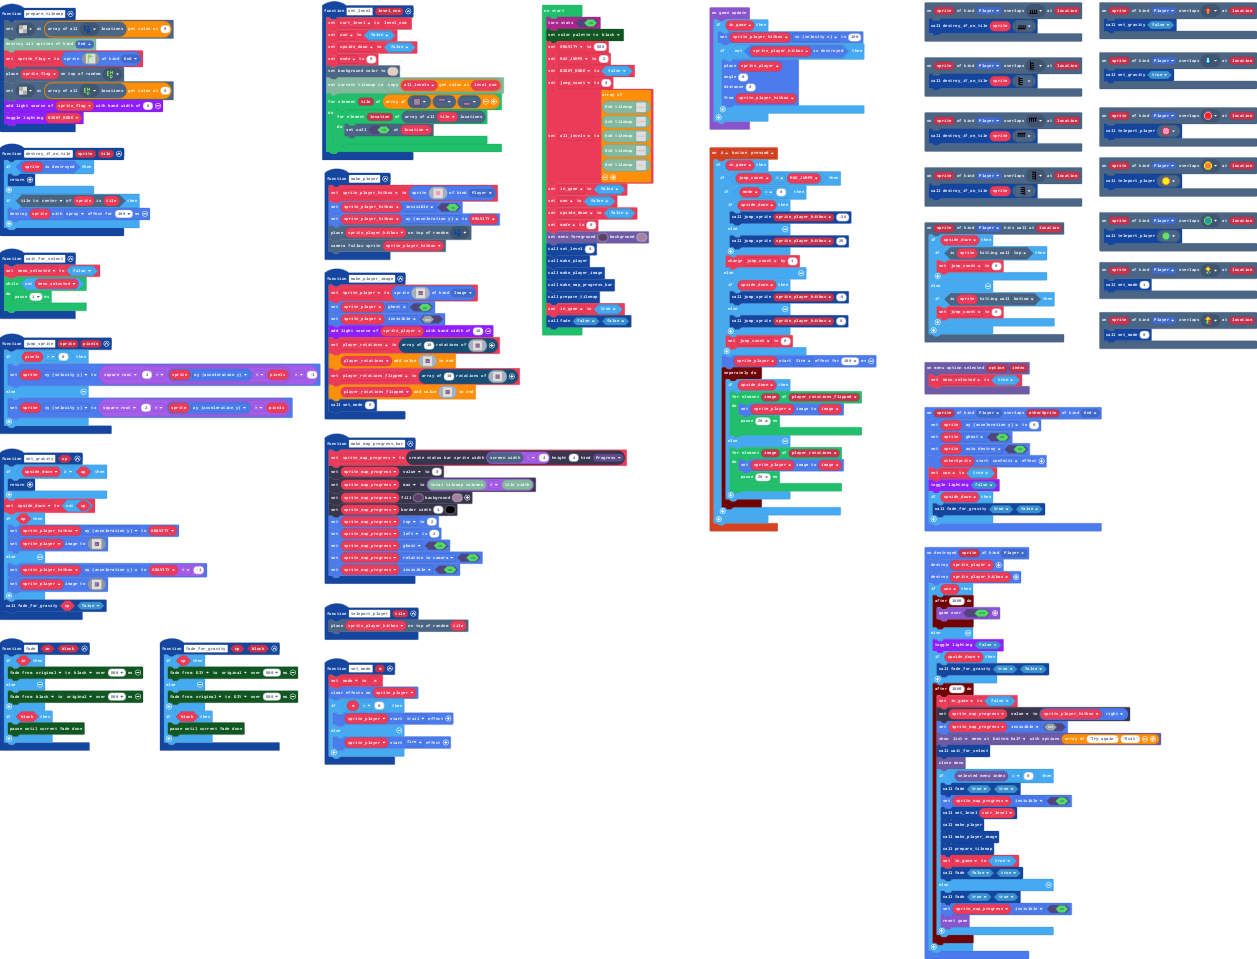
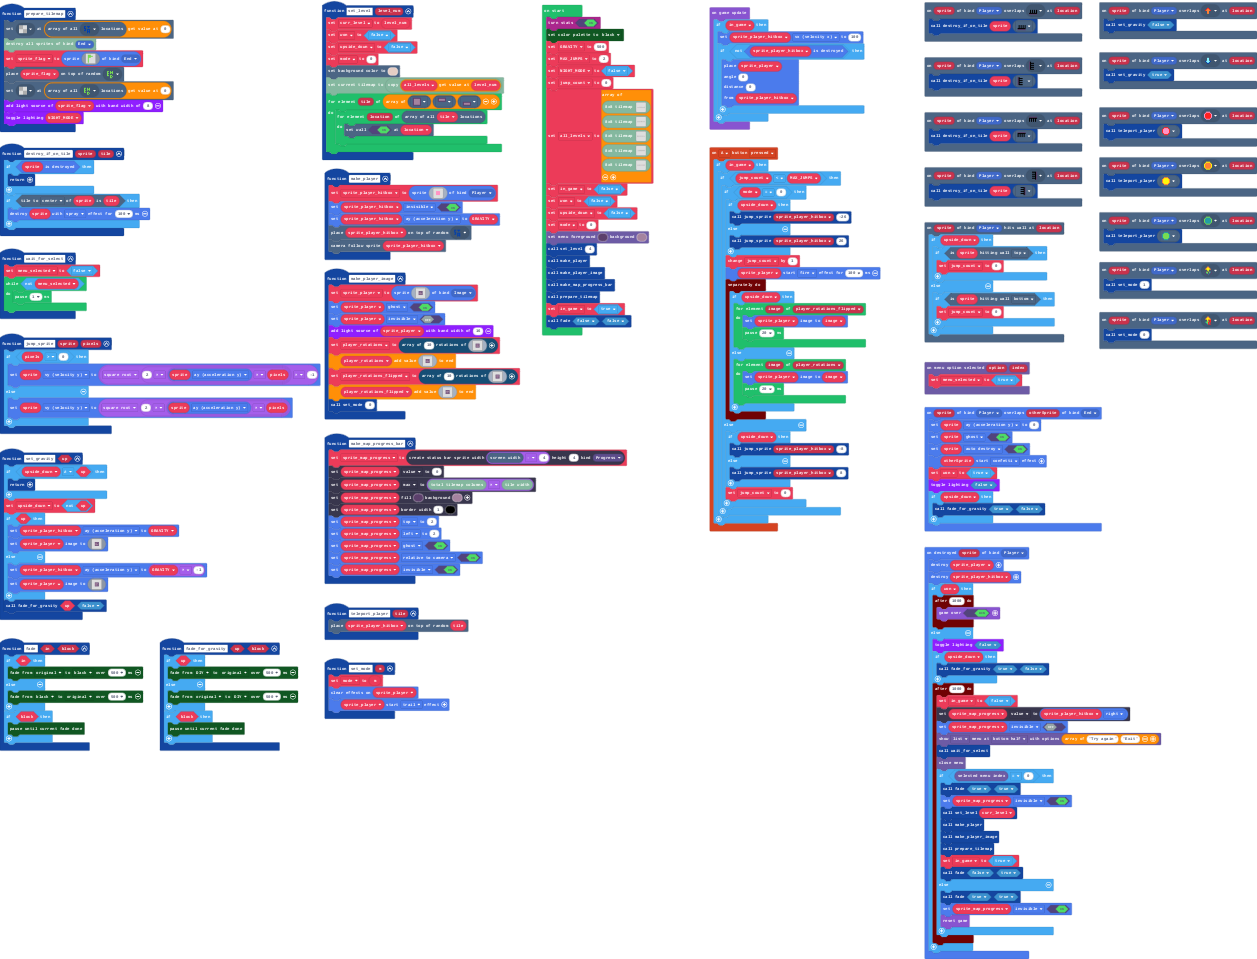
Only animate jumping when in mode 0

Changed region(s): [[0.5585, 0.2722, 0.7136, 0.5443], [0.2482, 0.7258, 0.3723, 0.8165]]

diff --git a/main.ts b/main.ts
@@ -73,6 +73,20 @@ controller.A.onEvent(ControllerButtonEvent.Pressed, function () {
                     jump_sprite(sprite_player_hitbox, 26)
                 }
                 jump_count += 1
+                sprite_player.startEffect(effects.fire, 100)
+                timer.background(function () {
+                    if (upside_down) {
+                        for (let image2 of player_rotations_flipped) {
+                            sprite_player.setImage(image2)
+                            pause(20)
+                        }
+                    } else {
+                        for (let image2 of player_rotations) {
+                            sprite_player.setImage(image2)
+                            pause(20)
+                        }
+                    }
+                })
             } else {
                 if (upside_down) {
                     jump_sprite(sprite_player_hitbox, -8)
@@ -81,20 +95,6 @@ controller.A.onEvent(ControllerButtonEvent.Pressed, function () {
                 }
                 jump_count = 0
             }
-            sprite_player.startEffect(effects.fire, 100)
-            timer.background(function () {
-                if (upside_down) {
-                    for (let image2 of player_rotations_flipped) {
-                        sprite_player.setImage(image2)
-                        pause(20)
-                    }
-                } else {
-                    for (let image2 of player_rotations) {
-                        sprite_player.setImage(image2)
-                        pause(20)
-                    }
-                }
-            })
         }
     }
 })
@@ -113,11 +113,7 @@ function prepare_tilemap () {
 function set_mode (m: number) {
     mode = m
     effects.clearParticles(sprite_player)
-    if (m == 0) {
-        sprite_player.startEffect(effects.trail)
-    } else {
-        sprite_player.startEffect(effects.fire)
-    }
+    sprite_player.startEffect(effects.trail)
 }
 sprites.onOverlap(SpriteKind.Player, SpriteKind.End, function (sprite, otherSprite) {
     sprite.ay = 0
